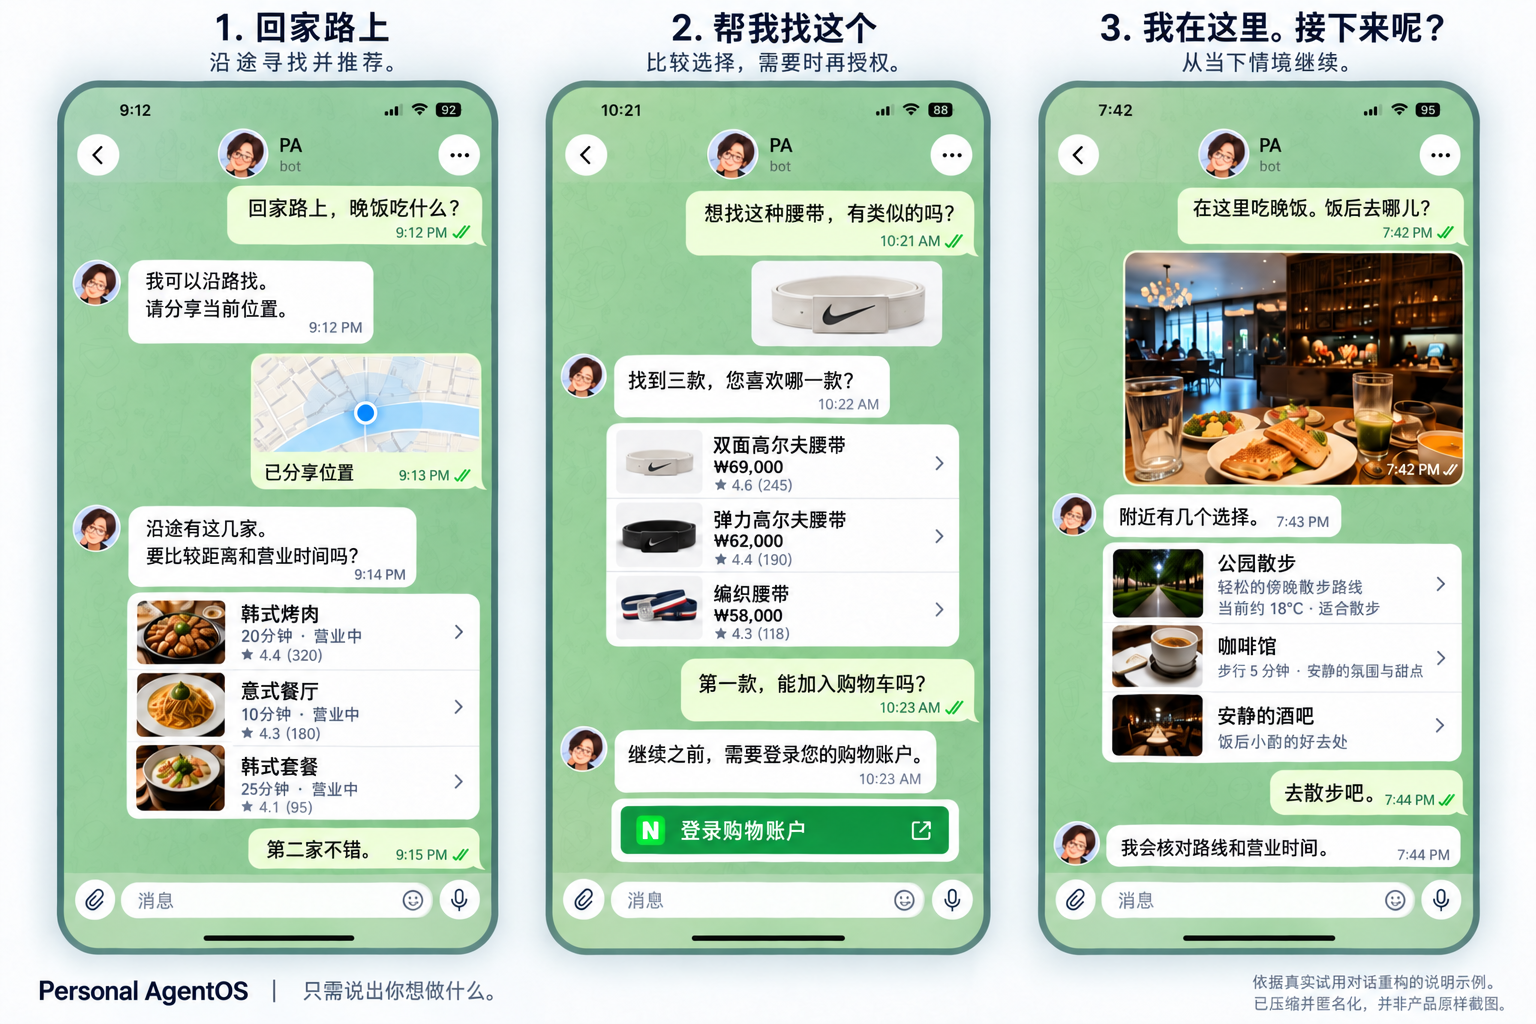
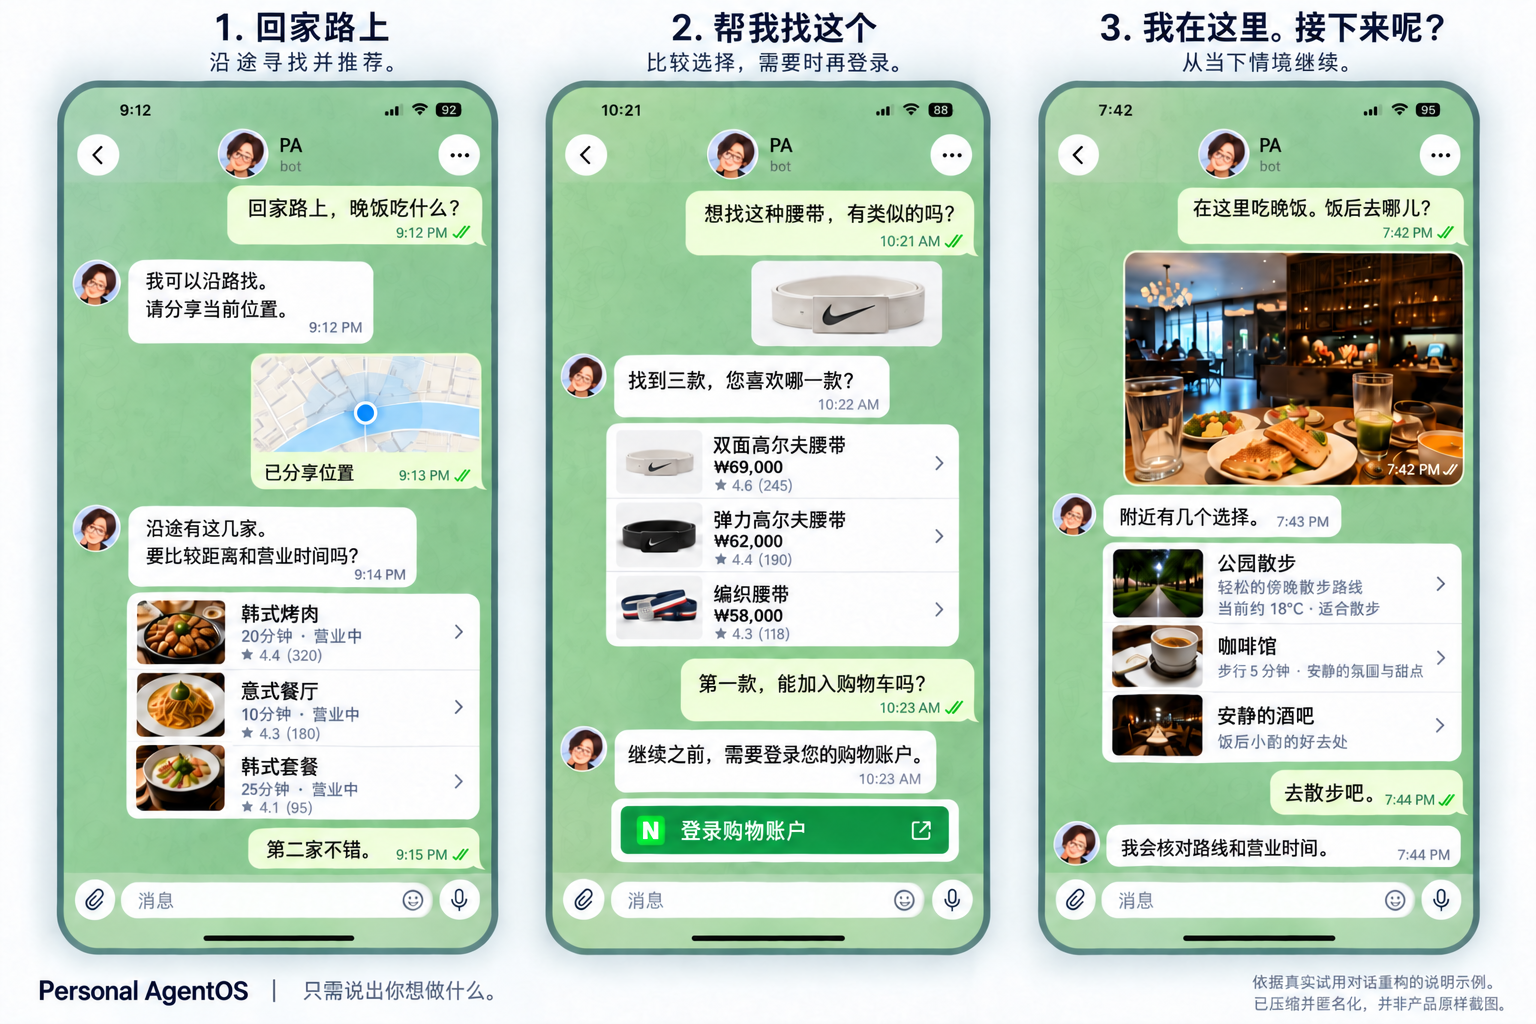
docs: describe Chinese shopping handoff as login

diff --git a/docs/assets/readme/owner-pilot-conversation-localization.md b/docs/assets/readme/owner-pilot-conversation-localization.md
@@ -11,6 +11,6 @@ Each language edit was prompted to retain the three realistic phone screens, gre
 | [`en`](owner-pilot-conversation.en.png) | “Heading home. Dinner on the way?” → request location → route options with distance/open status; belt photo → three priced options → ask for shopping-account login before cart action; restaurant photo → walk/café/bar → check route and hours. Footer: “Illustrative reconstruction based on real owner-pilot conversations. Condensed and redacted; not a verbatim product screenshot.” |
 | [`ko`](owner-pilot-conversation.ko.png) | Existing Korean conversations retained. Headings “집으로 가는 길”, “이거 찾아줘”, “지금 여기야. 다음은?”; Korean subtitle, input labels and footer: “실제 오너 파일럿 대화를 바탕으로 요약·익명화한 설명용 재구성입니다. 제품 화면 그대로의 캡처는 아닙니다.” |
 | [`ja`](owner-pilot-conversation.ja.png) | “帰り道、夕食どうしよう？” → 現在地を共有 → 焼肉・イタリアン・和食; belt photo → three priced options → “続けるには買い物用アカウントへのログインが必要です。”; restaurant photo → 公園を散歩・カフェ・バー → 道順と営業時間を確認. Footer identifies an abridged, anonymized illustrative reconstruction rather than a product capture. |
-| [`zh-CN`](owner-pilot-conversation.zh-CN.png) | “回家路上，晚饭吃什么？” → 分享位置 → 韩式烤肉・意式餐厅・韩式套餐; belt photo → three priced options → “继续之前，需要登录您的购物账户。”; restaurant photo → 公园散步・咖啡馆・酒吧 → 核对路线和营业时间. Footer identifies an abridged, anonymized illustrative reconstruction rather than a product capture. |
+| [`zh-CN`](owner-pilot-conversation.zh-CN.png) | “回家路上，晚饭吃什么？” → 分享位置 → 韩式烤肉・意式餐厅・韩式套餐; belt photo → three priced options → “继续之前，需要登录您的购物账户。”; restaurant photo → 公园散步・咖啡馆・酒吧 → 核对路线和营业时间. Footer identifies an abridged, anonymized illustrative reconstruction rather than a product capture. The middle subtitle was corrected to “比较选择，需要时再登录。” so login is not described as granting action authority. |
 
 The image text and layout were visually checked at full resolution. README captions, alt text and scene-by-scene prose carry the same meaning when the image is downscaled on mobile.
